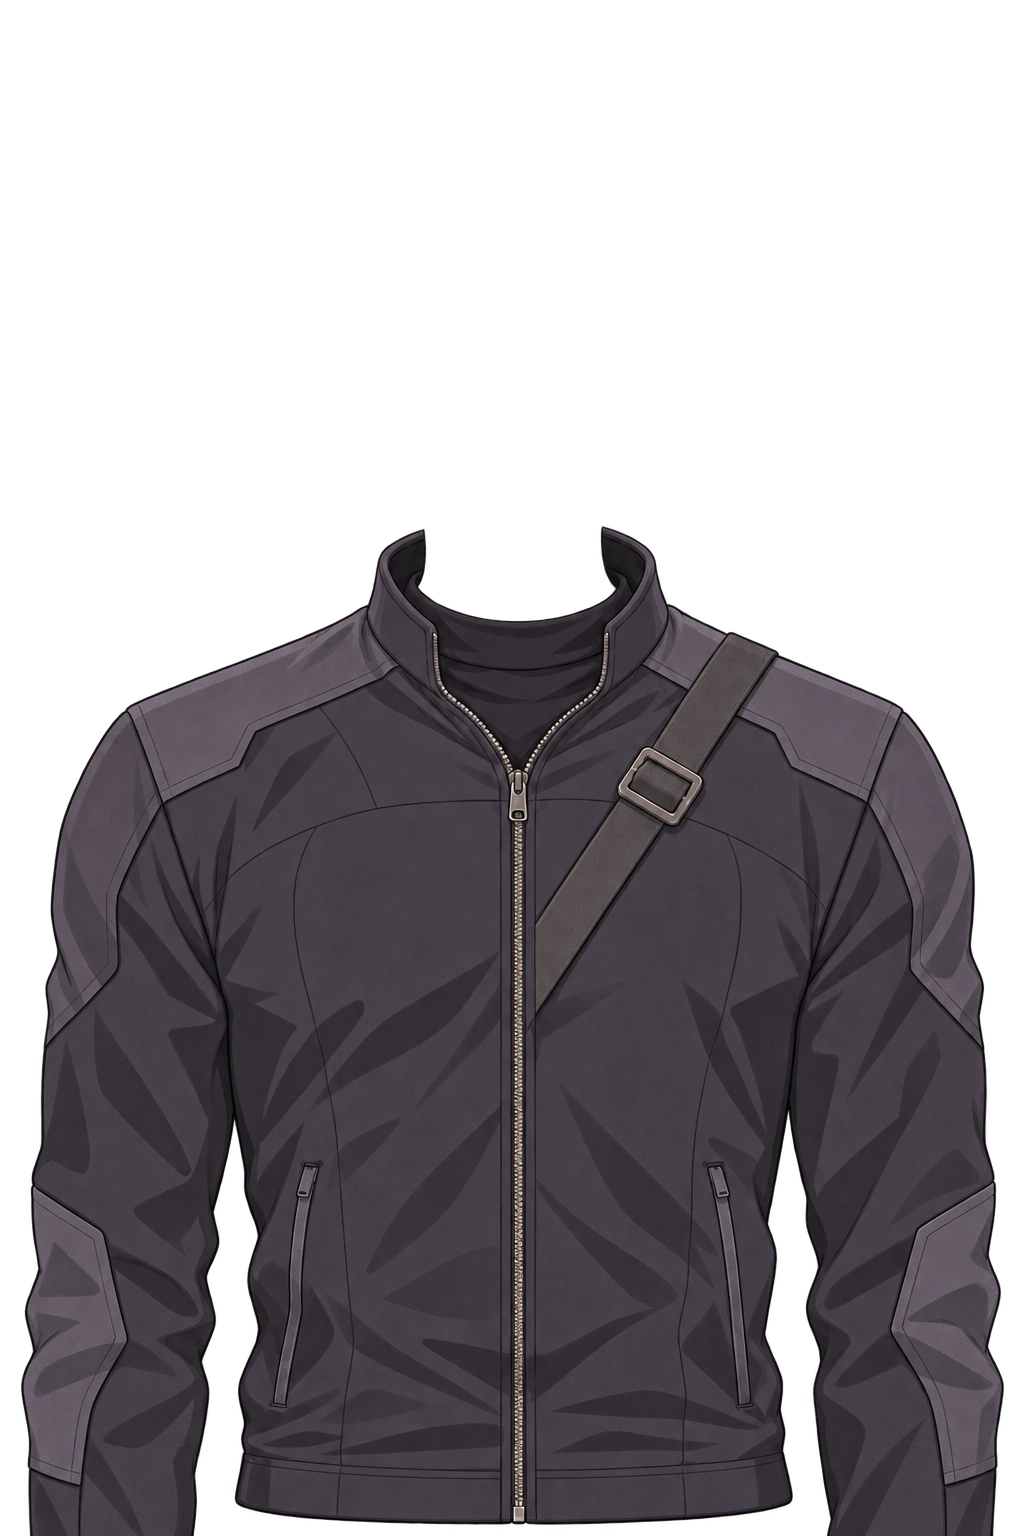
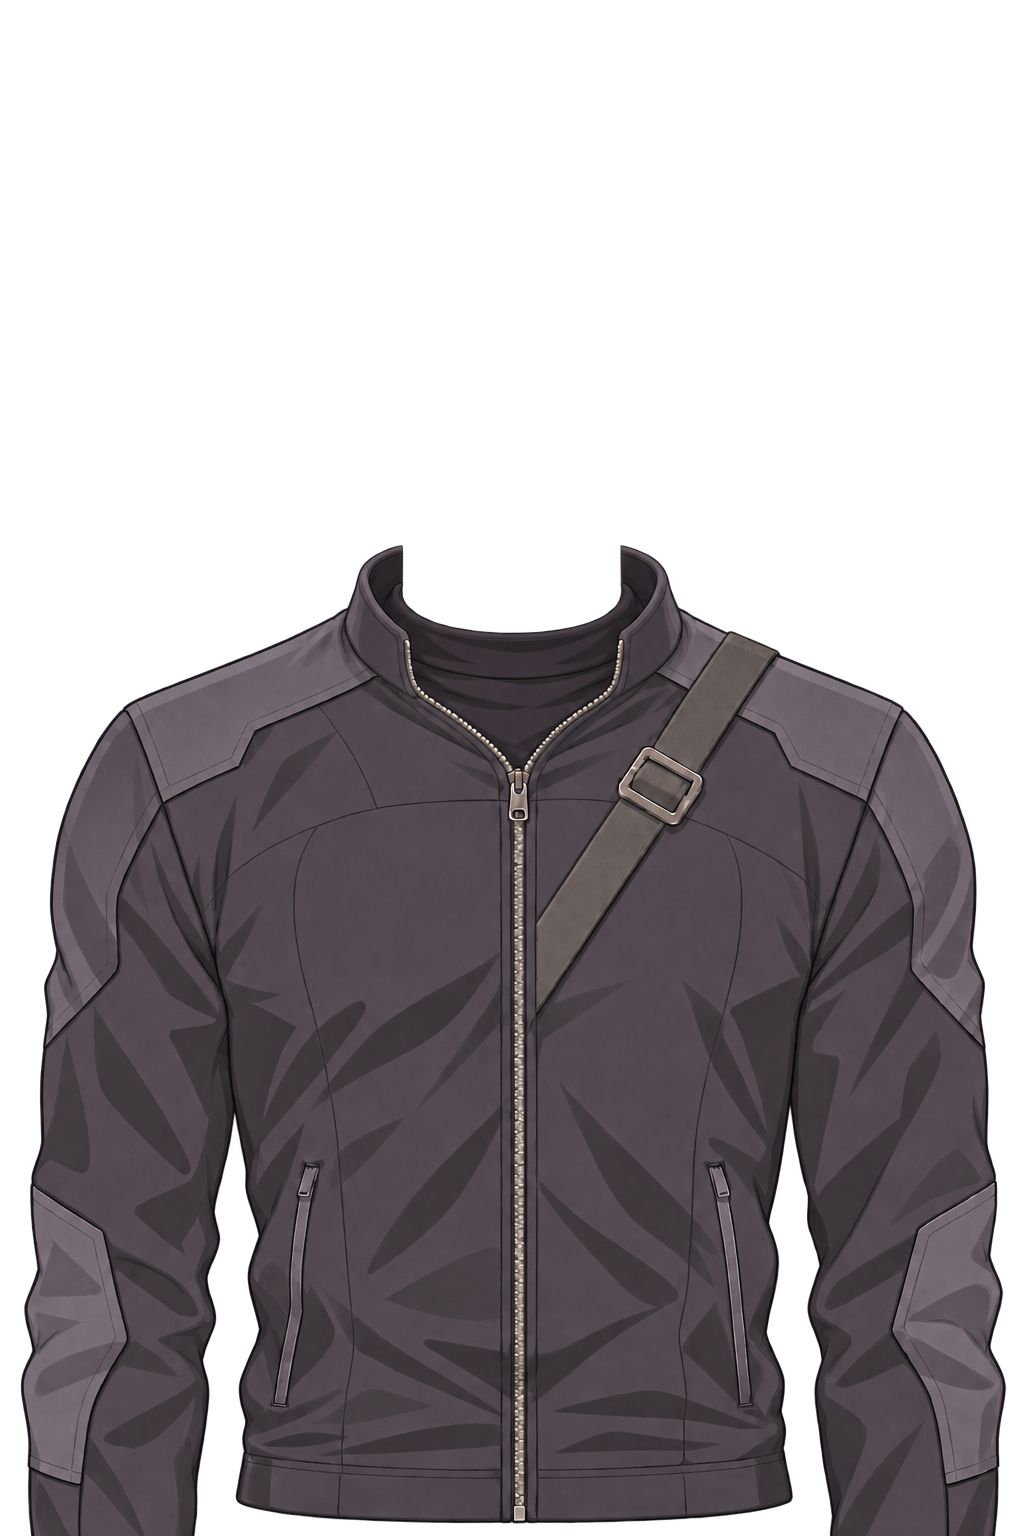
v2.82: [외형] 승인한 남성 복장 목둘레와 뒷깃 적용

diff --git a/js/player_male_art.js b/js/player_male_art.js
@@ -5,7 +5,10 @@ const PlayerMaleArt = (() => {
   // 원본 파츠를 같은 비율의 공통 캔버스에 놓는 고정 배치. 복장·나이에 따른 변형 없음.
   const registration = {"heads":[[95.62646,-17.76654,832.74708,1249.12062],[166.8129,36.17419,690.37419,1035.56129],[171.21019,36.83121,681.57962,1022.36943]],"hairs":[[307.2,98.0,409.6,614.4],[307.2,98.0,409.6,614.4],[307.2,94.0,409.6,614.4],[307.2,88.0,409.6,614.4],[307.2,94.0,409.6,614.4],[307.2,98.0,409.6,614.4],[307.2,98.0,409.6,614.4],[307.2,82.0,409.6,614.4]]};
   let uid = 0;
-  const file = (kind, n) => root + kind + '-0' + n + '.webp';
+  const file = (kind, n) => root + kind + '-0' + n + '.webp'
+    + (kind === 'clothes' || kind === 'collar-back' ? '?v=3' : '');
+  // 목 뒤의 안감만 배치한다. 얼굴·목·헤어 좌표는 의상과 무관하게 유지한다.
+  const rearCollars = [[0,-99,1024,1536],[-76.8,-697,1177.6,3225.6]];
   function select(seed, opts = {}) {
     const pick = (name, count) => FX.hash(String(seed) + '|player-male-v1|' + name) % count + 1;
     const valid = (v, n) => Number.isInteger(v) && v >= 1 && v <= n;
@@ -35,10 +38,11 @@ const PlayerMaleArt = (() => {
     const headRect = registration.heads[s.face-1], hairRect = registration.hairs[s.hair-1];
     const filter = toneFilter(id + 'tone', opts.skinTone);
     const skin = filter ? ` filter="url(#${id}tone)"` : '';
-    const image = (src,rect,extra='') => `<image href="${src}" x="${rect[0]}" y="${rect[1]}" width="${rect[2]}" height="${rect[3]}" preserveAspectRatio="xMidYMid meet"${extra}/>`;
-    const art = `<defs>${filter}</defs>` + image(file('headneck',s.face),headRect,skin)
+    const image = (src,rect,extra='',aspect='xMidYMid meet') => `<image href="${src}" x="${rect[0]}" y="${rect[1]}" width="${rect[2]}" height="${rect[3]}" preserveAspectRatio="${aspect}"${extra}/>`;
+    const rear = s.outfit <= 2 ? image(file('collar-back',s.outfit),rearCollars[s.outfit-1],'','none') : '';
+    const art = `<defs>${filter}</defs>` + rear + image(file('headneck',s.face),headRect,skin)
       + image(file('clothes',s.outfit),[0,0,1024,1536]) + image(file('hair',s.hair),hairRect);
-    return `<svg xmlns="http://www.w3.org/2000/svg" xmlns:xlink="http://www.w3.org/1999/xlink" data-portrait-parts="player-male-v2" data-player-male="1" data-body-type="normal" data-face="${s.face}" data-hair="${s.hair}" data-outfit="${s.outfit}" class="${avatar?'avatar':'portrait'}" width="${size}" height="${avatar?size:Math.round(size*1.5)}" viewBox="${avatar?'39 16 322 322':'0 0 400 600'}" preserveAspectRatio="xMidYMid meet" role="img" aria-label="${avatar?'초상화':'캐릭터 일러스트'}"><svg width="400" height="600" viewBox="0 0 1024 1536" preserveAspectRatio="xMidYMid meet">${art}</svg></svg>`;
+    return `<svg xmlns="http://www.w3.org/2000/svg" xmlns:xlink="http://www.w3.org/1999/xlink" data-portrait-parts="player-male-v3" data-player-male="1" data-body-type="normal" data-face="${s.face}" data-hair="${s.hair}" data-outfit="${s.outfit}" class="${avatar?'avatar':'portrait'}" width="${size}" height="${avatar?size:Math.round(size*1.5)}" viewBox="${avatar?'39 16 322 322':'0 0 400 600'}" preserveAspectRatio="xMidYMid meet" role="img" aria-label="${avatar?'초상화':'캐릭터 일러스트'}"><svg width="400" height="600" viewBox="0 0 1024 1536" preserveAspectRatio="xMidYMid meet">${art}</svg></svg>`;
   }
   const card = PORTRAIT.card, avatar = PORTRAIT.avatar;
   PORTRAIT.card = function(seed,g,e,r,size=200,opts={}) {

diff --git a/index.html b/index.html
@@ -13,7 +13,7 @@
   <link rel="preconnect" href="https://fonts.gstatic.com" crossorigin>
   <link rel="preload" as="image" href="assets/backgrounds/opening-omen.webp" fetchpriority="high">
   <link id="game-fonts" data-href="https://fonts.googleapis.com/css2?family=Black+Han+Sans&family=Chakra+Petch:wght@500;600;700&family=IBM+Plex+Sans+KR:wght@400;500;700&display=swap">
-  <link rel="stylesheet" href="dist/boot.css?v=s2.2.81">
+  <link rel="stylesheet" href="dist/boot.css?v=s2.2.82">
 </head>
 <body>
   <div id="app"><div class="title-screen"><img class="title-art" data-src="assets/backgrounds/title-gate.webp" alt="" aria-hidden="true" decoding="async"><div class="title-inner">
@@ -36,6 +36,6 @@
       document.body.appendChild(d);
     });
   </script>
-  <script defer src="dist/boot.js?v=s2.2.81" data-game="dist/game.js?v=s2.2.81" data-style="dist/style.css?v=s2.2.81"></script>
+  <script defer src="dist/boot.js?v=s2.2.82" data-game="dist/game.js?v=s2.2.82" data-style="dist/style.css?v=s2.2.82"></script>
 </body>
 </html>

diff --git a/js/data.js b/js/data.js
@@ -1,5 +1,5 @@
 // 게임 버전 (화면 오른쪽 아래에 표시)
-const GAME_VERSION = '2.81';
+const GAME_VERSION = '2.82';
 
 // ===== 게이트 크로니클: 데이터 정의 =====
 // 귀곡팔황의 "경지"를 각성 등급으로, "오행"을 에테르 속성으로 옮겼다.
